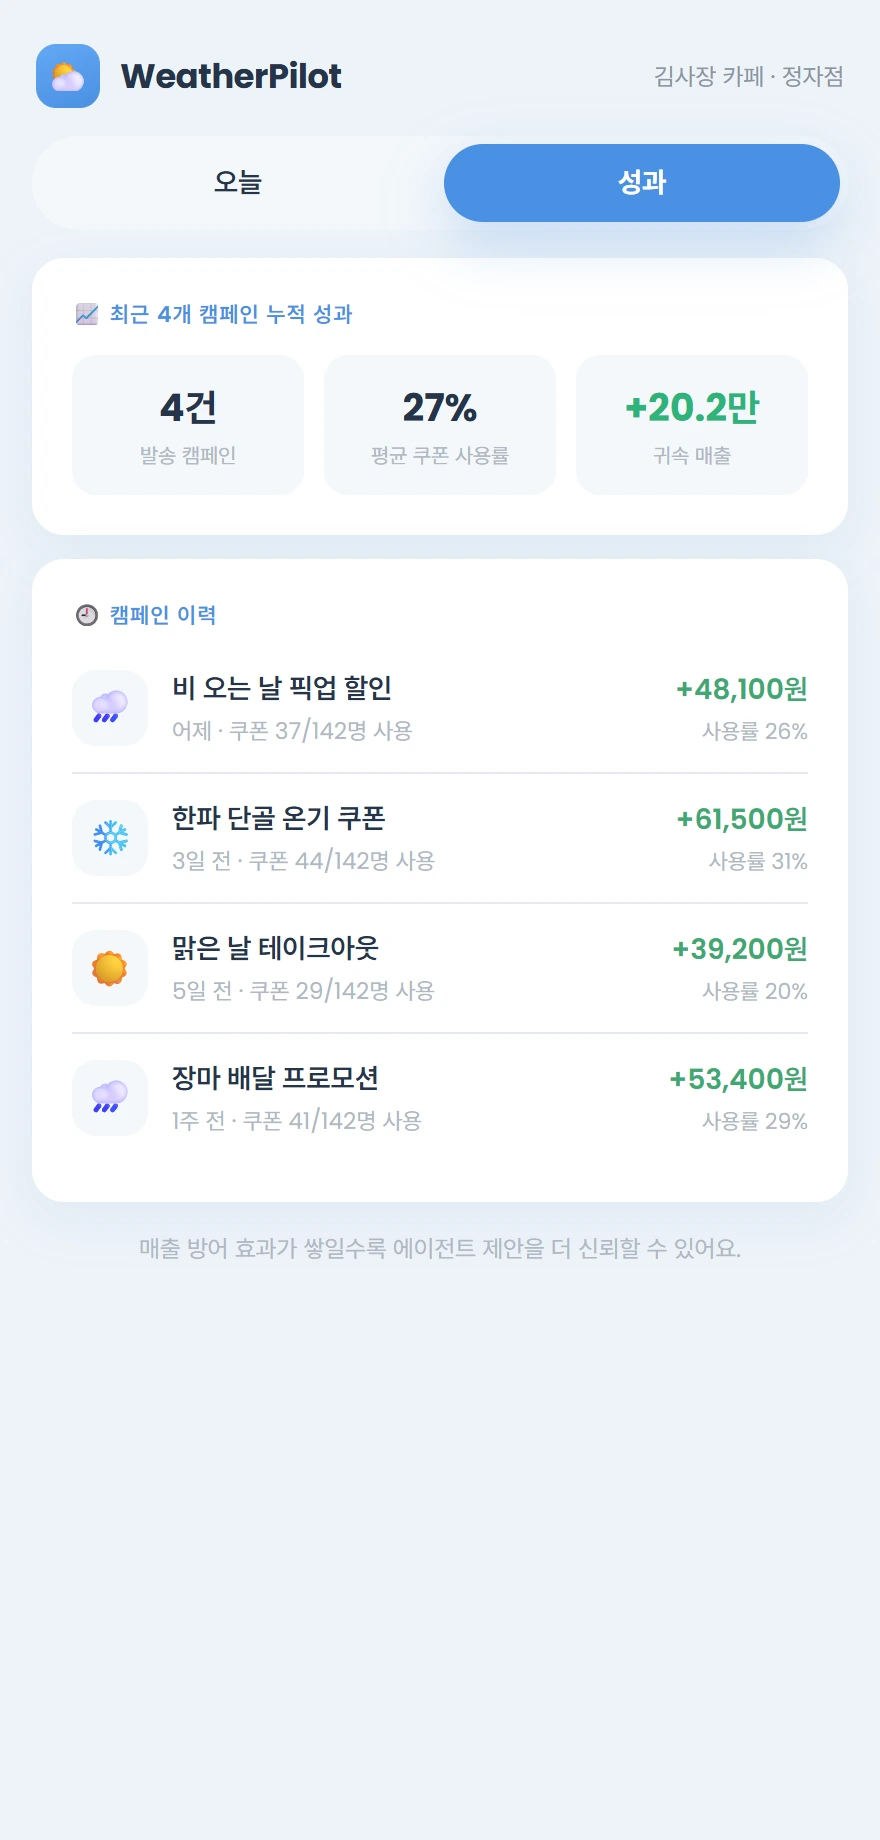
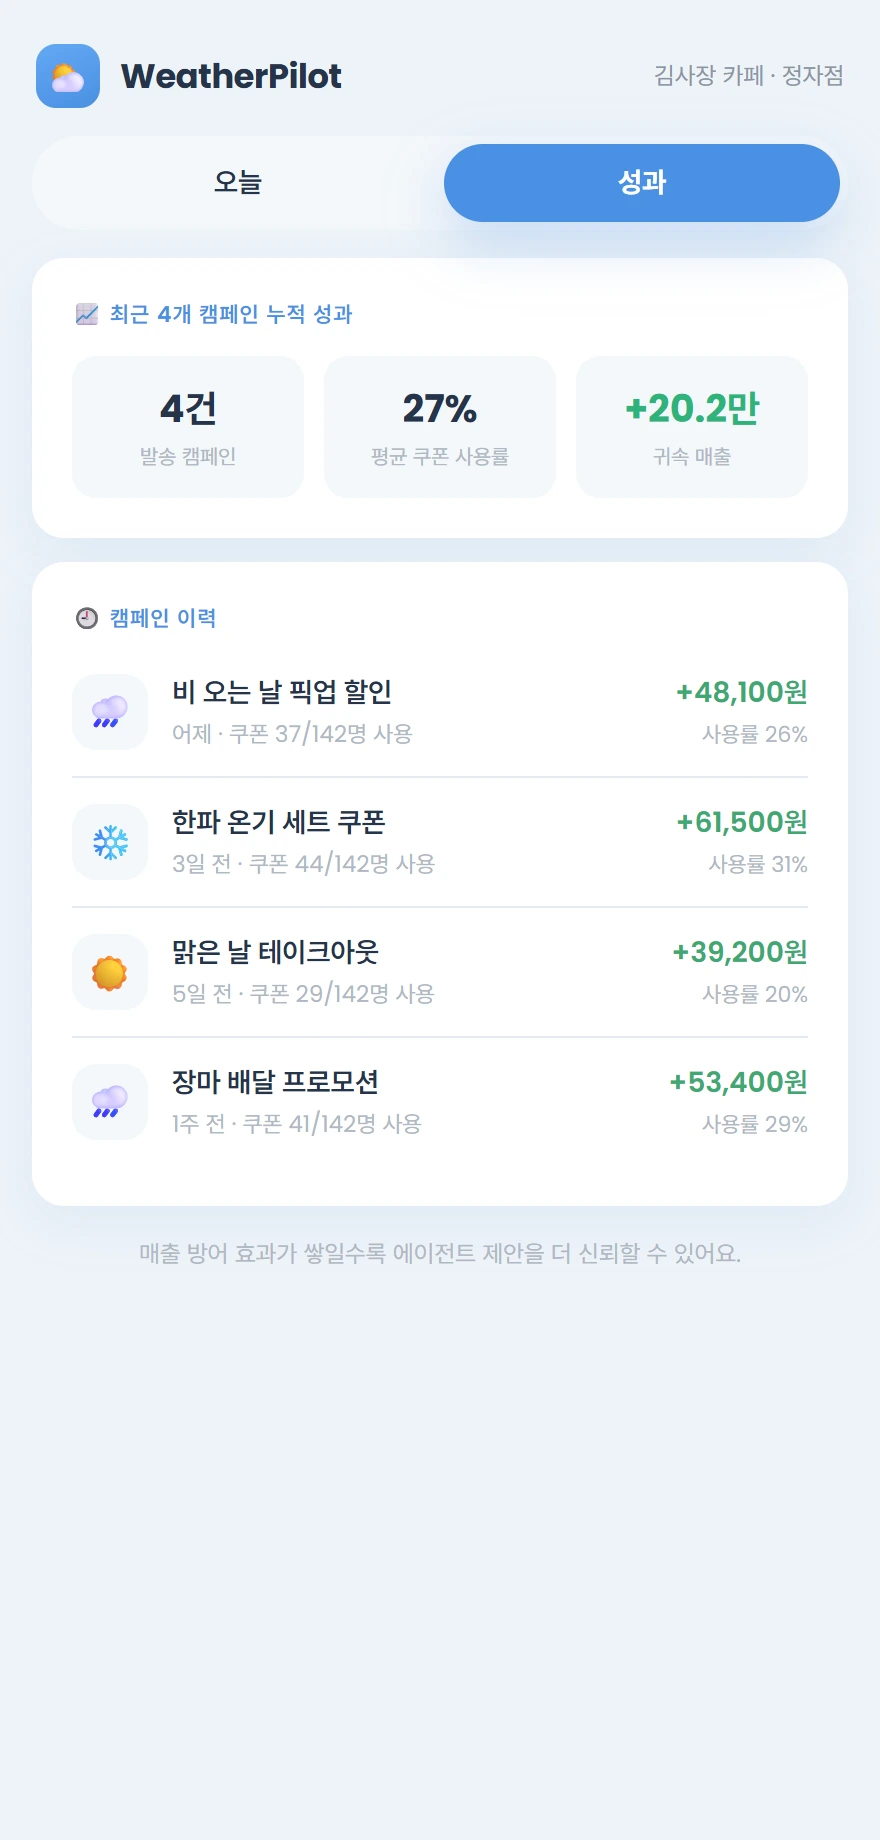
docs: 쇼케이스 최종 업데이트 — 소스 링크 추가·스크린샷 4장 재촬영·16:9 썸네일
운영진 요구사항(배포·영상·소스 링크 + 프로젝트 소개 자료) 4종을 대조한 결과 소스 링크만
담을 필드가 없었다(githubUser는 사람 식별자다). repoUrl을 추가해 운영진 저장소 브랜치를
가리킨다. 나머지 3종은 기존 필드로 이미 충족된다.

내용이 실제 제품과 어긋난 지점 정리:
- 테스트 183건 → 216건 (실행 확인: 서버 19파일 216통과·1스킵, 웹 44통과)
- 문자 전용으로 적혀 있던 발송을 Instagram 실게시 포함으로 고치고, 채널 역할 분리
  (문자=1인 1코드로 전환 실측 / 공개 채널=도달)을 명시
- 쿠폰이 정률(%)·정액(원) 두 형태이고 상한이 각각 20%·3,000원인 것을 features에 추가
- 쿠폰 상한을 packages/shared 한 곳에서 판정하는 것을 techHighlights에 반영
- 지난 캠페인 폴백을 techHighlights에 추가
- techStack에 Instagram Graph API·Solapi 추가

스크린샷은 4장 모두 배포 앱(MOCK 모드)·비 시나리오로 통일해 다시 찍었다. 심사자가 데모
URL에서 실제로 보는 화면과 같아야 문구의 −18%와 화면이 어긋나지 않는다. 옛 3장은 실연동
시절 값(686,212원·29일)이라 지금 배포 화면과 달랐고, 성과 탭은 "한파 단골 온기 쿠폰"이
"한파 온기 세트 쿠폰"으로 바뀌어 이력 문구가 틀려 있었다. 발송 완료 화면(sent.webp)은
Instagram 실게시·귀속 안내·쿠폰 추적이 이 화면에만 있어 새로 추가했다.

썸네일은 크롭이 아니라 16:9 전용 커버로 새로 만들었다(tools/showcase-thumb.html, 1600×900).
기존 817×740 크롭은 비율이 안 맞고 "구름많음 +1%"라 매출 방어 제품 커버로도 약했다.
색은 weatherpilot-design 토큰, 폰트는 docs/booth의 Pretendard를 그대로 재사용한다.

문서 정합성도 같이 맞췄다:
- README·제출물의 테스트 수 183 → 216
- "실게시 검증 기록"이 계정에 없는 게시물(DbSE6HDkmpB)을 링크하고 있던 3곳을 실게시분으로
  교체하고, 7/30에 날씨별 4건으로 확장한 사실을 덧붙였다 (README·제출물·백로그)

diff --git a/tools/showcase-thumb.html b/tools/showcase-thumb.html
@@ -1,0 +1,158 @@
+<!doctype html>
+<meta charset="utf-8" />
+<title>WeatherPilot — 쇼케이스 썸네일 (16:9)</title>
+<!--
+  쇼케이스 썸네일 원본 (1600×900, 16:9).
+
+  왜 HTML인가: 기존 썸네일은 대시보드 스크린샷을 817×740으로 크롭한 것이라 16:9가 아니었고,
+  잘라낸 화면만 보여 서비스가 무엇인지 한눈에 읽히지 않았다. 크롭 대신 카피 + 화면을
+  같이 얹은 커버를 만든다. 인쇄물(docs/booth/*.html)과 같은 방식 — 정적 HTML을 헤드리스
+  크롬으로 굽는다. 외부 스타일링 라이브러리는 쓰지 않는다(프로젝트 규칙).
+
+  굽는 법: 스크래치패드의 shoot-thumb.mjs (viewport 1600×900, DPR 1) → showcase/thumbnail.webp
+
+  색은 skills/weatherpilot-design/references/tokens.css, 폰트는 docs/booth/fonts의
+  Pretendard를 그대로 재사용한다(값을 다시 적지 않는다).
+-->
+<style>
+  @font-face {
+    font-family: "Pretendard";
+    src: url("../docs/booth/fonts/Pretendard-Regular.woff2") format("woff2");
+    font-weight: 400;
+    font-display: block;
+  }
+  @font-face {
+    font-family: "Pretendard";
+    src: url("../docs/booth/fonts/Pretendard-SemiBold.woff2") format("woff2");
+    font-weight: 600;
+    font-display: block;
+  }
+  @font-face {
+    font-family: "Pretendard";
+    src: url("../docs/booth/fonts/Pretendard-Bold.woff2") format("woff2");
+    font-weight: 700;
+    font-display: block;
+  }
+  @font-face {
+    font-family: "Pretendard";
+    src: url("../docs/booth/fonts/Pretendard-ExtraBold.woff2") format("woff2");
+    font-weight: 800;
+    font-display: block;
+  }
+
+  :root {
+    /* tokens.css 값 */
+    --primary: #4a90e2;
+    --primary-light: #62a8f5;
+    --ink: #253449;
+    --down: #ff7a45;
+  }
+
+  * { margin: 0; padding: 0; box-sizing: border-box; }
+
+  html, body { width: 1600px; height: 900px; }
+
+  body {
+    display: flex;
+    align-items: center;
+    gap: 72px;
+    padding: 0 84px;
+    font-family: "Pretendard", sans-serif;
+    color: #fff;
+    /* 브랜드 그라데이션(tokens.css --gradient-primary)을 커버 전체로 확장 */
+    background: linear-gradient(150deg, #6fb1f5 0%, var(--primary) 55%, #3b7dd8 100%);
+    overflow: hidden;
+  }
+
+  /* 배경 장식 — 빗방울 결의 사선 원. 카피 가독성을 해치지 않게 아주 낮은 대비로만 둔다. */
+  .glow {
+    position: absolute;
+    border-radius: 50%;
+    background: rgba(255, 255, 255, 0.09);
+  }
+  .glow.a { width: 520px; height: 520px; left: -170px; top: -190px; }
+  .glow.b { width: 300px; height: 300px; left: 44%; bottom: -150px; }
+
+  .left { position: relative; flex: 1; min-width: 0; }
+
+  .brand {
+    display: flex;
+    align-items: center;
+    gap: 14px;
+    font-size: 30px;
+    font-weight: 700;
+    letter-spacing: -0.4px;
+  }
+  .brand .mark {
+    width: 54px;
+    height: 54px;
+    border-radius: 15px;
+    background: rgba(255, 255, 255, 0.22);
+    display: grid;
+    place-items: center;
+    font-size: 30px;
+  }
+
+  h1 {
+    margin-top: 34px;
+    font-size: 68px;
+    font-weight: 800;
+    line-height: 1.24;
+    letter-spacing: -2.2px;
+  }
+  h1 .accent {
+    /* 하락(▼)을 뜻하는 주황을 카피에서도 한 번 쓴다 — 화면의 진단 알약과 같은 색 언어 */
+    color: #ffd9c9;
+  }
+
+  .sub {
+    margin-top: 26px;
+    font-size: 27px;
+    font-weight: 400;
+    line-height: 1.6;
+    color: rgba(255, 255, 255, 0.9);
+    letter-spacing: -0.5px;
+  }
+
+  /* showcase.json의 featureTags와 같은 3개 — 쇼케이스 카드와 커버가 같은 말을 하게 한다 */
+  .tags { margin-top: 44px; display: flex; gap: 12px; }
+  .tag {
+    padding: 12px 22px;
+    border-radius: 999px;
+    background: rgba(255, 255, 255, 0.18);
+    border: 1.5px solid rgba(255, 255, 255, 0.34);
+    font-size: 21px;
+    font-weight: 600;
+    letter-spacing: -0.3px;
+  }
+
+  /* 실제 대시보드 스크린샷(880×1840)을 폭 420으로 축소해 통째로 얹는다 */
+  .shot {
+    width: 420px;
+    flex: 0 0 420px;
+    border-radius: 26px;
+    overflow: hidden;
+    box-shadow: 0 40px 90px rgba(20, 50, 90, 0.42);
+    background: #eef3f8;
+  }
+  .shot img { display: block; width: 100%; }
+</style>
+
+<div class="glow a"></div>
+<div class="glow b"></div>
+
+<div class="left">
+  <div class="brand"><span class="mark">⛅</span> WeatherPilot</div>
+  <h1>날씨가 매출을 <span class="accent">깎는 날</span>,<br />마케팅은 이미 준비돼 있다</h1>
+  <p class="sub">
+    에이전트가 날씨·매출을 분석해 문구와 쿠폰을 미리 만들어 둡니다.<br />
+    사장님은 승인만 누르고, 쿠폰 코드로 실제 매출을 확인합니다.
+  </p>
+  <div class="tags">
+    <span class="tag">날씨 기반 AI 제안</span>
+    <span class="tag">승인 후 발송</span>
+    <span class="tag">쿠폰 성과 실측</span>
+  </div>
+</div>
+
+<div class="shot"><img src="../showcase/screenshots/home.webp" alt="WeatherPilot 대시보드" /></div>

diff --git a/docs/WeatherPilot_백로그.md b/docs/WeatherPilot_백로그.md
@@ -97,7 +97,7 @@
 | 3-4 | 야간 발송 시 scheduled 저장 (예약 전환) | P1 | ✅ |
 | 3-5 | 쿠폰 코드 발급 + `POST /coupons/:code/redeem` | P0 | ✅ |
 | 3-6 | 추적 화면 폴링으로 실데이터 표시 (귀속 매출) | P0 | ✅ |
-| 3-7 | Instagram 본인 계정 실게시(Content Publishing dev-mode, 서버 `sns/instagram.ts`) → 미설정·실패 시 "문구 복사" 폴백(FE SentView). 타인 계정은 App Review 필요로 모의 유지. **7/27 실게시 검증 완료** — `@cafe_kimsajang`, [게시물](https://www.instagram.com/p/DbSE6HDkmpB/) | P2 | ✅ |
+| 3-7 | Instagram 본인 계정 실게시(Content Publishing dev-mode, 서버 `sns/instagram.ts`) → 미설정·실패 시 "문구 복사" 폴백(FE SentView). 타인 계정은 App Review 필요로 모의 유지. **7/27 실게시 검증 완료** — `@cafe_kimsajang`, [게시물](https://www.instagram.com/p/DbSzcwRiaQ8/). 7/30 날씨별 4건으로 확장 | P2 | ✅ |
 | 3-8 | **임계 발동 시 사장님 아침 알림 문자** — 예상 하락 −20%↑인 날, "오늘 강수 많음·매출 −N% 예상, 방어 마케팅 준비" 알림. 사장님 본인 번호로 보내는 **운영 알림**이라 `(광고)`·수신동의 대상 아님(단골 광고 문자와 구분) | P1 | ✅ |
 
 ---

diff --git a/README.md b/README.md
@@ -144,7 +144,7 @@ flowchart TB
 | DB | Supabase (PostgreSQL) |
 | LLM | Groq (`llama-3.3-70b`, 무료·OpenAI 호환) — 원안 Claude, provider 교체 가능 |
 | 외부 연동 | 기상청·OpenWeatherMap(날씨) · Solapi(문자) · Instagram Graph API(본인 계정 게시) |
-| 테스트/품질 | Vitest (서버 183건) · ESLint · `tsc --noEmit` |
+| 테스트/품질 | Vitest (서버 216건) · ESLint · `tsc --noEmit` |
 
 ## 📁 프로젝트 구조
 
@@ -202,7 +202,8 @@ curl http://localhost:4000/weather/today   # 오늘 매장 앙상블 날씨
 
 > 데모의 "쿠폰 실시간 추적"은 연출이며, 실제로는 쿠폰 코드 기반 누적 집계입니다.
 > Instagram·Solapi 모두 **본인 계정/번호에만** 실동작하고, 타인 대상은 모의로 둡니다.
-> Instagram 실게시 검증 기록: [`@cafe_kimsajang` 게시물](https://www.instagram.com/p/DbSE6HDkmpB/) (2026-07-27, 앱 개발 모드)
+> Instagram 실게시 검증 기록: [`@cafe_kimsajang` 게시물](https://www.instagram.com/p/DbSzcwRiaQ8/) (2026-07-27, 앱 개발 모드).
+> 2026-07-30에 날씨 시나리오별 4건(비·맑음·한파·폭염)으로 확장했습니다 — 목록은 `apps/web/src/api/client.ts`의 `DEMO_IG_PERMALINKS`.
 
 ## 📚 문서
 
